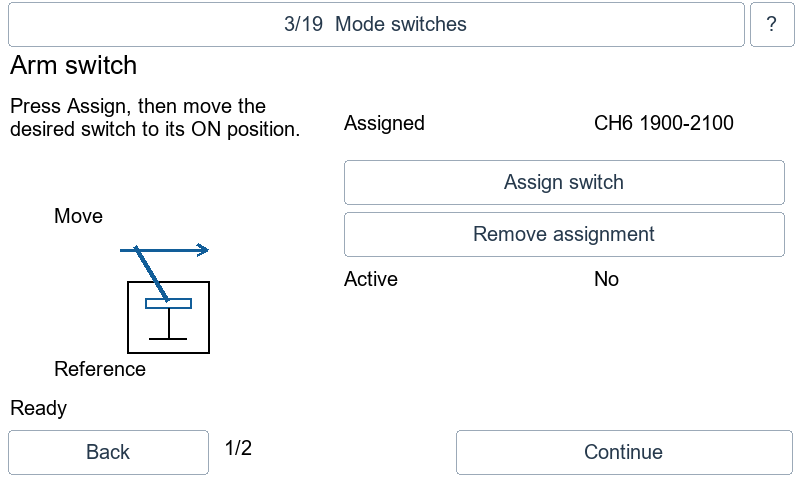
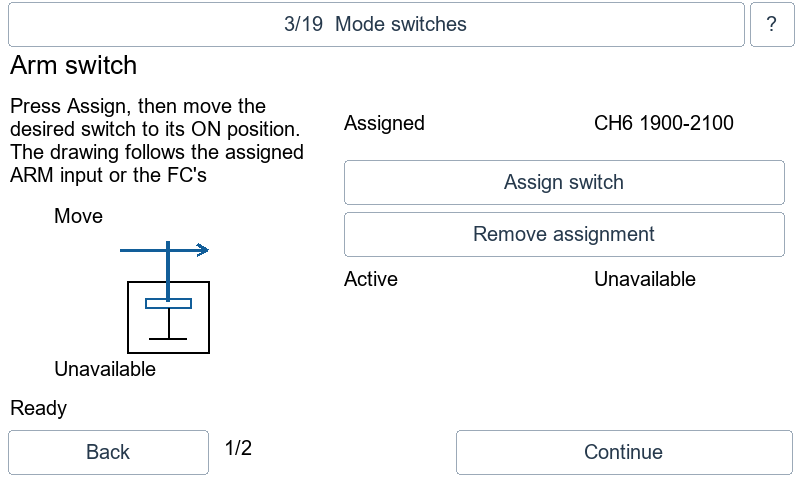
Show live helicopter attitude and actual mode feedback

diff --git a/bin/wizard/render_previews.py b/bin/wizard/render_previews.py
@@ -90,7 +90,7 @@ def main():
     args = parser.parse_args()
     args.output.mkdir(parents=True,exist_ok=True)
     scenes = json.loads(args.scenes.read_text(encoding="utf-8"))
-    pictures = 0
+    pictures = animations = 0
     for width,height,label in ((320,240,'narrow'),(480,272,'small'),(800,480,'large')):
         selected = [s for s in scenes if s['width']==width and s['height']==height and 'motion' not in s]
         names=set()
@@ -140,7 +140,8 @@ def main():
                 ImageDraw.Draw(frame).text((6,5),f"Binding example: {group} = {sample['input']}",font=font(13),fill='#26394c')
                 frames.append(frame)
             frames[0].save(args.output/f'motion-{group}-{label}.gif',save_all=True,append_images=frames[1:],duration=1000,loop=0)
-    print(f'Rendered {pictures} individual images, three overview sheets, three illustration sheets and 15 binding animations.')
+            animations += 1
+    print(f'Rendered {pictures} individual images, three overview sheets, three illustration sheets and {animations} binding animations.')
 
 
 if __name__=='__main__':

diff --git a/docs/pages/helicopter_setup.md b/docs/pages/helicopter_setup.md
@@ -86,15 +86,34 @@ beside at most four control rows. The 800×480 layout has a separate instruction
 column and a larger sketch. Numbered swash links follow the selected 120/135/140/90L/90V
 geometry without rebuilding the scene; Direct shows each servo function instead.
 Board orientation, servo lift/neutral, roll/pitch/collective response, swash levelling,
-blade-pitch reference and opposing gyro correction have distinct diagrams. These
-are reference sketches, not a live attitude display or a mechanical measurement.
+blade-pitch reference and opposing gyro correction have distinct diagrams.
+The final Board orientation card has its own layout: a live helicopter above the
+confirmation on small screens, and a larger model beside it on 800×480. Tilt the
+real helicopter right/left and nose down/up; the picture must follow. Roll and
+pitch are secondary readouts. The fixed view omits heading and fits the complete
+model into the available space even at steep tilts. No fresh attitude for two
+seconds hides the picture and displays a waiting message. Confirmation remains
+manual; a level picture cannot prove correct mounting.
+
+This view uses the existing MSP attitude read. While checking orientation, reads
+alternate attitude/status/attitude/servo at the existing request cadence, without
+increasing total request frequency. Projection runs once per changed sample in
+wakeup; native getters only read fixed point tables. No reply rebuilds the scene.
+
+The mode-switch drawing follows the actual assigned ARM input range or the FC's
+Rescue/Trainer flag. It shows unavailable input neutrally. ARM feedback describes
+the switch while the wizard inhibits arming. The profile-switch reference stays
+still. Receiver bars and control-command meters already follow live inputs;
+swash diagrams follow the selected geometry. All other mechanical drawings remain
+test references: commanded output or board attitude cannot measure actual servo,
+swash, blade or gyro-correction movement. Verify these on the real helicopter.
 The short instruction area may show only its first lines; **?** opens the full text.
 
 ## Step sequence and settings
 
 | # | Step | Controls and checks |
 | --- | --- | --- |
-| 1 | Board orientation | Confirm servos unplugged and all blades removed. Calibrate the accelerometer with the model level and still. Detect orientation by lifting the tail, or enter roll, pitch and yaw in degrees. After restart, check the live angles and confirm the directions. Automatic alignment requires firmware support. |
+| 1 | Board orientation | Confirm servos unplugged and all blades removed. Calibrate the accelerometer with the model level and still. Detect orientation by lifting the tail, or enter roll, pitch and yaw in degrees. After restart, compare the live helicopter model with real roll/pitch movements and confirm the directions. Automatic alignment requires firmware support. |
 | 2 | Receiver | Choose a free/current receiver UART and serial protocol; use USB Configurator for receiver wiring detection (the trial interrupts the radio MSP link). Save & reboot is available here. Detect roll, pitch, yaw, collective and throttle channel mapping one stick at a time, or select ELRS, FrSky, Futaba/Hitec or DSM/Graupner/JR presets. Check all stick values. Record at least 300 µs throttle travel; Use measured range adds a 20 µs margin at each end. Zero limits select firmware defaults. Throttle is low compares the mapped input with the low threshold; it is not permission to arm. |
 | 3 | Mode switches | Assign ARM, RESCUE and TRAINER when the FC exposes them. Move the switch to its intended ON position; a clear AUX movement and settled position determine the active window. Reassign or Remove an assignment. ARM assignment is required. No unrelated mode slots are overwritten. |
 | 4 | Profiles & gain | Detect a two- or three-position switch; select PID + rate profiles, PID only or None. Visit the positions and Use switch. Optional gain uses a knob, or four trim-button values on one spare channel. Mapped gain is 50–150%; button gain is ±5%, bounded to 25–200%. The trim guide gives MAX mix weights 30/40/50/60%, with 100% at rest. Configure those mixes in EdgeTX; this page does not rewrite the transmitter model. |
@@ -250,6 +269,12 @@ record the function inventory, behavior contracts and independent golden vectors
 
 The preview images are approximate renders of the actual scene definitions, using
 desktop fonts. They are not native EdgeTX screenshots or radio acceptance evidence.
+
+[Compact live orientation](../images/helicopter_setup/01-small-task-3.png) ·
+[Compact roll movement](../images/helicopter_setup/motion-attitude-roll-small.gif) ·
+[Compact pitch movement](../images/helicopter_setup/motion-attitude-pitch-small.gif) ·
+[320×240 roll movement](../images/helicopter_setup/motion-attitude-roll-narrow.gif) ·
+[800×480 orientation](../images/helicopter_setup/01-large-task-3.png)
 
 [320×240 illustrated tasks](../images/helicopter_setup/illustrations-narrow.png) ·
 [480×272 illustrated tasks](../images/helicopter_setup/illustrations-small.png) ·

diff --git a/release-notes/helicopter-setup-attitude.feature.md b/release-notes/helicopter-setup-attitude.feature.md
@@ -1,0 +1,1 @@
+- Show a live helicopter for Board orientation checks, with a dedicated compact layout, cached projection and stale-data feedback. Mode-switch drawings follow actual switch/mode input; mechanical reference drawings remain explicit test instructions (`helicopter_setup`).
